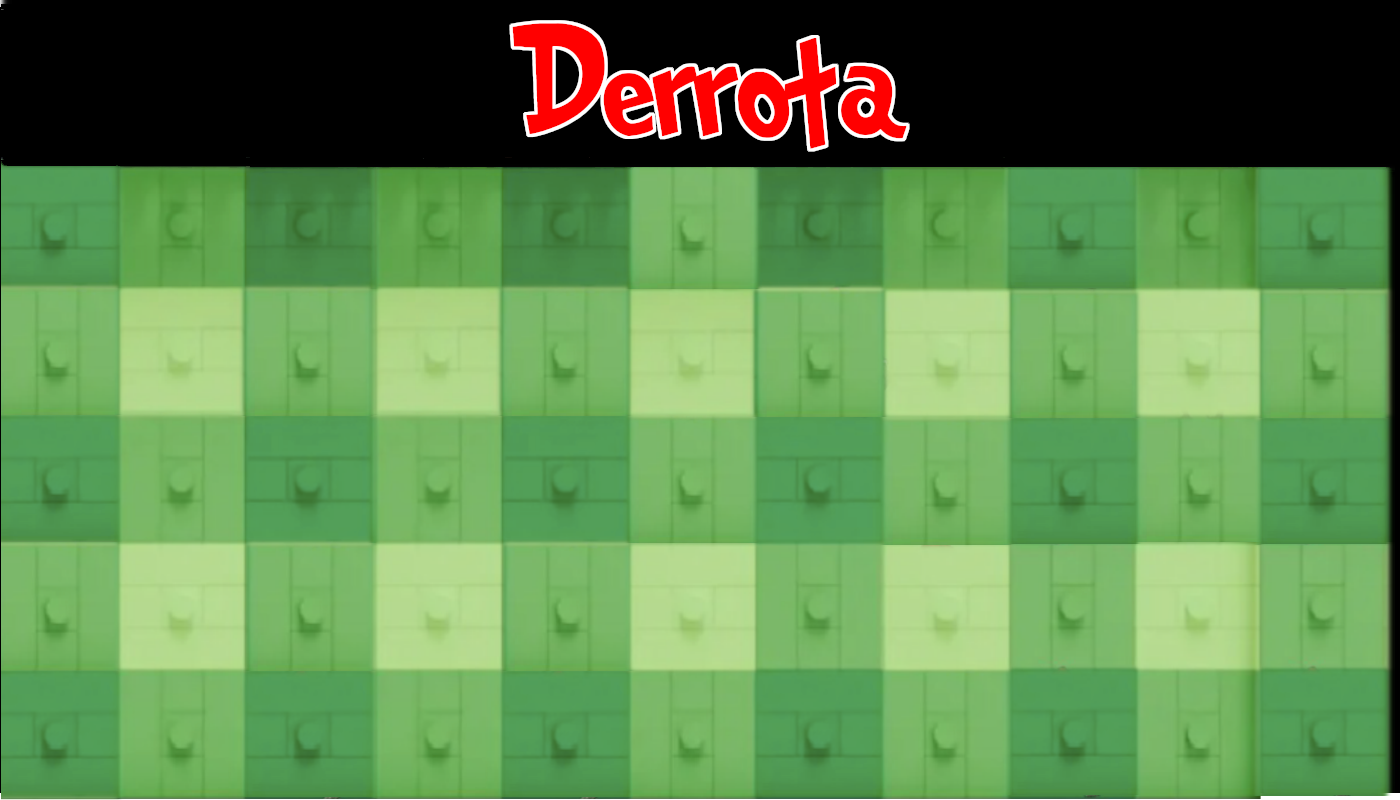
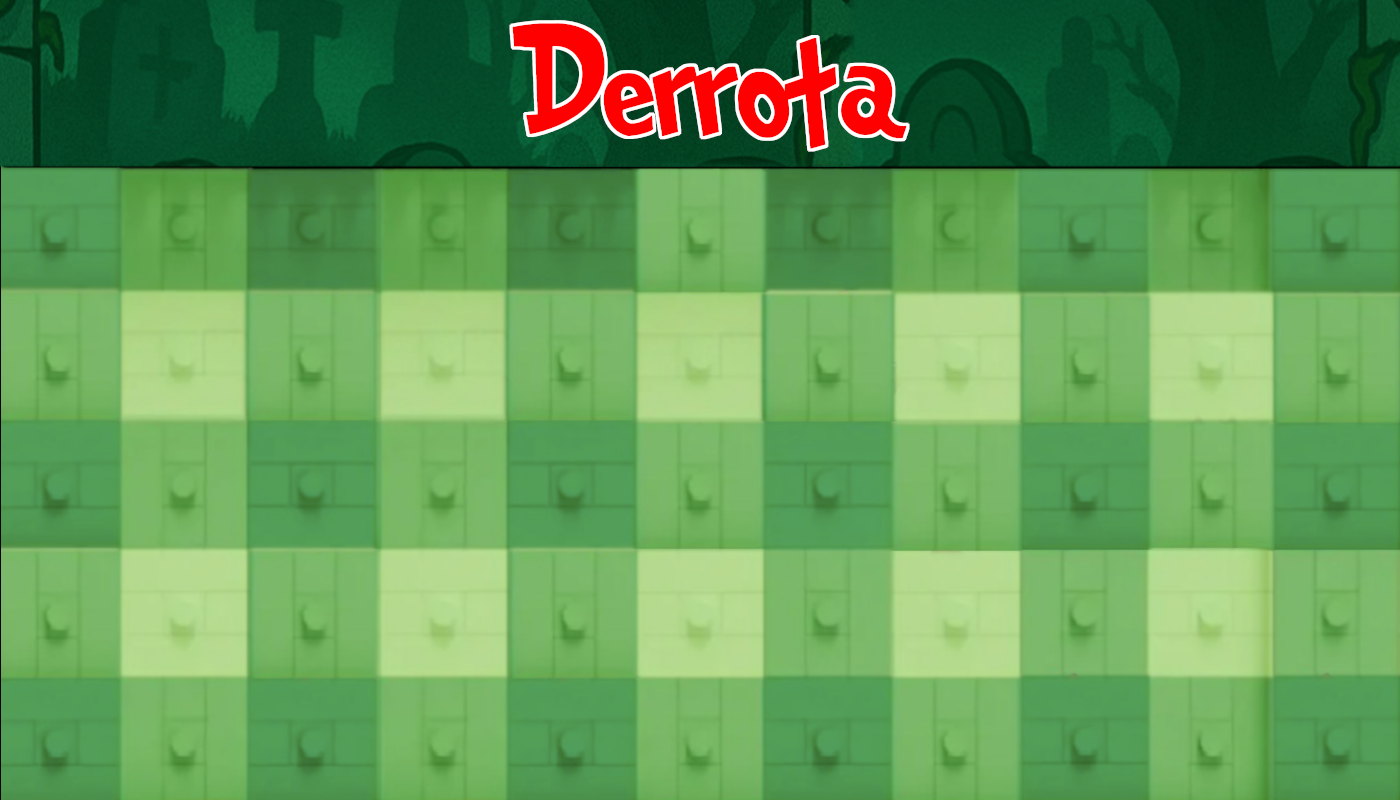
Agregados los zombies alternativos y su dinámica de zombies victoriosos

diff --git a/Ramos - Veron - Garvich - Lamaruggine -tp-p1/src/juego/Cripta.java b/Ramos - Veron - Garvich - Lamaruggine -tp-p1/src/juego/Cripta.java
@@ -80,6 +80,38 @@ public class Cripta {
 	            }
 	        }
 	    } 
+	    for(int i = 0; i < zAlter.length; i++) {        //dibujar zombies base
+	        if (zAlter[i] == null) 
+	            continue;
+	        if(zAlter[i].vivo) {
+	            zAlter[i].derecha = true;
+	            zAlter[i].desplazar();
+	            if(!zAlter[i].zombieVictorioso) {
+	                if (reloj.ciclos(200, 400)) {
+	                    entorno.dibujarImagen(Herramientas.cargarImagen("personajes/zAlter3.png"), zAlter[i].posX, zAlter[i].posY, 0);
+	                }
+	                else {
+	                    entorno.dibujarImagen(Herramientas.cargarImagen("personajes/zAlter4.png"), zAlter[i].posX, zAlter[i].posY, 0);
+	                }
+	            }
+	            else {
+	                if (reloj.ciclos(200, 400))
+	                    entorno.dibujarImagen(Herramientas.cargarImagen("personajes/zAlterV1.png"), zAlter[i].posX, zAlter[i].posY, 0);
+	                else
+	                    entorno.dibujarImagen(Herramientas.cargarImagen("personajes/zAlterV2.png"), zAlter[i].posX, zAlter[i].posY, 0);
+	                if(zAlter[i].posY == 220)
+	                    regalo1 = false;
+	                else if(zAlter[i].posY == 350)
+	                    regalo2 = false;
+	                else if(zAlter[i].posY == 480)
+	                    regalo3 = false;
+	                else if(zAlter[i].posY == 610)
+	                    regalo4 = false;
+	                else
+	                    regalo5 = false;
+	            }
+	        }
+	    } 
 	} 
 	public void dibujarZombies() {
 			 for(int i = 0; i < zBase.length; i++) {		//dibujar zombies base
@@ -94,6 +126,20 @@ public class Cripta {
 		            	else {
 		            		entorno.dibujarImagen(Herramientas.cargarImagen("personajes/zBase2.png"), zBase[i].posX, zBase[i].posY, 0);
                  }			 
+			 }
+		 }
+			 for(int i = 0; i < zAlter.length; i++) {		//dibujar zombies base
+		            if (zAlter[i] == null) 
+		                continue;
+		            if(zAlter[i].vivo) {
+		            	zAlter[i].desplazar();
+		            	zAlter[i].victoriaZombie();
+		            	if (reloj.ciclos(200, 400)) {
+		            		entorno.dibujarImagen(Herramientas.cargarImagen("personajes/zAlter1.png"), zAlter[i].posX, zAlter[i].posY, 0);
+              }
+		            	else {
+		            		entorno.dibujarImagen(Herramientas.cargarImagen("personajes/zAlter2.png"), zAlter[i].posX, zAlter[i].posY, 0);
+              }			 
 			 }
 		 }
 		
@@ -119,7 +165,7 @@ public class Cripta {
 	    else
 	        posI = 740;
 	    
-	    int num = (int)(Math.random() * 50) + 1;
+	    int num = (int)(Math.random() * 60) + 1;
 
 	    if (num >= 40 && conteoAlter < zAlter.length) {
 	        // Zombie Alter
@@ -128,6 +174,7 @@ public class Cripta {
 	        zAlter[conteoAlter].posY = posI;
 	        conteoAlter += 1;
 	        zombiesVivos += 1;
+	        contarTicks(true);
 	    } 
 	    else if (conteoBase < zBase.length) {
 	        // Zombie Base

diff --git a/Ramos - Veron - Garvich - Lamaruggine -tp-p1/src/juego/ZAlter.java b/Ramos - Veron - Garvich - Lamaruggine -tp-p1/src/juego/ZAlter.java
@@ -10,7 +10,9 @@ public class ZAlter {
 	boolean vivo = false;
 	int posX;
 	int posY;
-	int vida = 100;
+	int vida = 40;
+	boolean derecha = false;
+	boolean zombieVictorioso = false;
 	
 	public ZAlter(Entorno entorno, Estado estado, Reloj reloj) {
 		this.entorno = entorno;
@@ -18,5 +20,16 @@ public class ZAlter {
 		this.reloj = reloj;
 
 }
-
+	public void desplazar() {
+		if(!derecha)
+			posX -= 1.5;
+		else
+			posX +=1;
+	}
+	public void victoriaZombie() {
+		if(posX <= 100) {
+			estado.setEstado(4);
+			zombieVictorioso = true;
+		}
+	}
 }

diff --git a/Ramos - Veron - Garvich - Lamaruggine -tp-p1/src/juego/ZBase.java b/Ramos - Veron - Garvich - Lamaruggine -tp-p1/src/juego/ZBase.java
@@ -11,7 +11,7 @@ public class ZBase {
 	boolean derecha = false;
 	int posX;
 	int posY;
-	int vida = 80;
+	int vida = 100;
 	boolean zombieVictorioso = false;
 			
 	public ZBase(Entorno entorno, Estado estado, Reloj reloj) {
@@ -22,9 +22,9 @@ public class ZBase {
 	}
 	public void desplazar() {
 		if(!derecha)
-			posX -= 1;
+			posX -= 0.8;
 		else
-			posX +=1;
+			posX += 1;
 	}
 	public void victoriaZombie() {
 		if(posX <= 100) {
